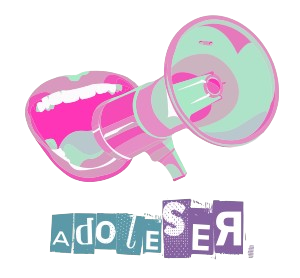
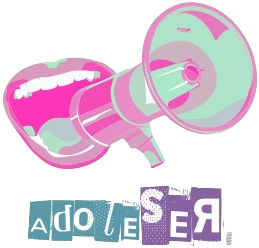
Update About page content and layout
Added new about texts for AdoleSer and PET BCC UFSCar to constants.dart and refactored AboutPage to use these texts. Improved AboutPage layout with a two-column responsive design and updated the image. Changed initial route to '/sobre'. Increased vertical paddings for larger screens.

diff --git a/frontend/lib/presentation/ui/pages/about/about_page.dart b/frontend/lib/presentation/ui/pages/about/about_page.dart
@@ -1,4 +1,5 @@
 import 'package:flutter/material.dart';
+import 'package:mapa_adoleser/core/constants.dart';
 import 'package:mapa_adoleser/core/utils/responsive_utils.dart';
 import 'package:mapa_adoleser/presentation/ui/responsive_page_wrapper.dart';
 import 'package:mapa_adoleser/presentation/ui/widgets/appbar/custom_app_bar.dart';
@@ -21,28 +22,52 @@ class AboutPage extends StatelessWidget {
       body: Center(
         child: SingleChildScrollView(
           child: ResponsivePageWrapper(
-            child: ConstrainedBox(
-              constraints: const BoxConstraints(maxWidth: 450),
-              child: Column(
-                spacing: 35,
-                children: [
-                  Text(
-                    'Sobre o Mapa Adoleser',
-                    style: Theme.of(context).textTheme.headlineMedium,
+            child: Wrap(
+              spacing: 100,
+              runSpacing: 50,
+              children: [
+                ConstrainedBox(
+                  constraints: const BoxConstraints(maxWidth: 450),
+                  child: Column(
+                    spacing: 20,
+                    crossAxisAlignment: CrossAxisAlignment.stretch,
+                    children: [
+                      Text(
+                        AppTexts.about.aboutAdoleserTitle,
+                        style: Theme.of(context).textTheme.headlineMedium,
+                      ),
+                      Text(
+                        AppTexts.about.aboutAdoleserParagraph,
+                        style: Theme.of(context).textTheme.bodyMedium,
+                        textAlign: TextAlign.justify,
+                      ),
+                      SizedBox(height: 10),
+                      Image.asset(
+                        'assets/images/megafonetexto.png',
+                        height: 200,
+                      ),
+                    ],
                   ),
-                  Text(
-                    'O AdoleSer é um núcleo pensado para o cuidado integral de adolescentes e suas famílias, composto por uma médica hebiatra, uma psiquiatra, 1 professora de enfermagem e 1 professora de terapia ocupacional da Universidade Federal de São Carlos.',
-                    style: Theme.of(context).textTheme.bodyMedium,
-                    textAlign: TextAlign.justify,
+                ),
+                ConstrainedBox(
+                  constraints: const BoxConstraints(maxWidth: 450),
+                  child: Column(
+                    spacing: 20,
+                    crossAxisAlignment: CrossAxisAlignment.stretch,
+                    children: [
+                      Text(
+                        AppTexts.about.aboutPETBCCTitle,
+                        style: Theme.of(context).textTheme.headlineMedium,
+                      ),
+                      Text(
+                        AppTexts.about.aboutPETBCCParagraph,
+                        style: Theme.of(context).textTheme.bodyMedium,
+                        textAlign: TextAlign.justify,
+                      ),
+                    ],
                   ),
-                  Text(
-                    'Entre suas ações, está a discussão de assuntos relacionados a adolescência, o apoio a rede para os atendimentos e a participação e coordenação do grupo Juntos pelas Adolescências, um grupo intersetorial que tem por objetivo discutir casos complexos, fornecer suporte em rede e pensar em propostas de melhoria para a população adolescente de São Carlos.',
-                    style: Theme.of(context).textTheme.bodyMedium,
-                    textAlign: TextAlign.justify,
-                  ),
-                  Image.asset('assets/images/megafonetexto.png', scale: 1.2)
-                ],
-              ),
+                ),
+              ],
             ),
           ),
         ),

diff --git a/frontend/lib/core/constants.dart b/frontend/lib/core/constants.dart
@@ -8,9 +8,9 @@ class ResponsivePaddings {
 
   static const double verticalPhone = 16.0;
   static const double verticalTablet = 16.0;
-  static const double verticalTableLarge = 16.0;
-  static const double verticalDesktop = 16.0;
-  static const double verticalDesktopLarge = 16.0;
+  static const double verticalTableLarge = 32.0;
+  static const double verticalDesktop = 32.0;
+  static const double verticalDesktopLarge = 32.0;
 }
 
 class AppDimensions {
@@ -39,6 +39,7 @@ class AppTexts {
   static const help = _HelpTexts();
   static const recoveryPassword = _RecoveryPasswordTexts();
   static const changePassword = _ChangePasswordTexts();
+  static const about = _AboutTexts();
 }
 
 class _HelpTexts {
@@ -138,4 +139,16 @@ class _HomeTexts {
   final mapTitle = 'Conheça um local que lhe fará bem';
   final mapText =
       'Use o mapa e os filtros abaixo para achar um bom lugar para você';
+}
+
+class _AboutTexts {
+  const _AboutTexts();
+
+  final aboutAdoleserTitle = 'Sobre o Adoleser';
+  final aboutAdoleserParagraph =
+      'O AdoleSer é um núcleo pensado para o cuidado integral de adolescentes e suas famílias, composto por uma médica hebiatra, uma psiquiatra, uma professora de enfermagem e uma professora de terapia ocupacional da Universidade Federal de São Carlos. \n\n Entre suas ações, está a discussão de assuntos relacionados a adolescência, o apoio a rede para os atendimentos e a participação e coordenação do grupo Juntos pelas Adolescências, um grupo intersetorial que tem por objetivo discutir casos complexos, fornecer suporte em rede e pensar em propostas de melhoria para a população adolescente de São Carlos.';
+
+  final aboutPETBCCTitle = 'Sobre o PET BCC UFSCar';
+  final aboutPETBCCParagraph =
+      'O PET BCC UFSCar (Programa de Educação Tutorial do Bacharelado em Ciência da Computação da Universidade Federal de São Carlos) é um grupo formado por estudantes de graduação que desenvolve atividades integrando ensino, pesquisa e extensão. Coordenado por um professor tutor e vinculado ao MEC, o grupo tem como objetivo complementar a formação acadêmica, técnica e humana dos alunos, contribuindo também com a comunidade universitária e externa. \n\n Os petianos do BCC realizam projetos nas áreas de tecnologia, educação, responsabilidade social e divulgação científica. Organizam eventos, ministram minicursos, produzem conteúdos didáticos, desenvolvem sistemas e participam ativamente da vida acadêmica da UFSCar. O PET BCC também promove o crescimento pessoal e profissional dos seus membros, incentivando a autonomia, o trabalho em equipe e o pensamento crítico.';
 }

diff --git a/frontend/lib/presentation/routes/app_router.dart b/frontend/lib/presentation/routes/app_router.dart
@@ -26,7 +26,7 @@ GoRouter createRouter(AuthProvider auth) {
     // TODO: oq é isso?
     refreshListenable: auth,
     debugLogDiagnostics: true,
-    initialLocation: '/recuperar-senha',
+    initialLocation: '/sobre',
     //errorBuilder: (context, state) => const ErrorPage(),
     redirect: (context, state) => authGuard(auth, state),
     routes: [
